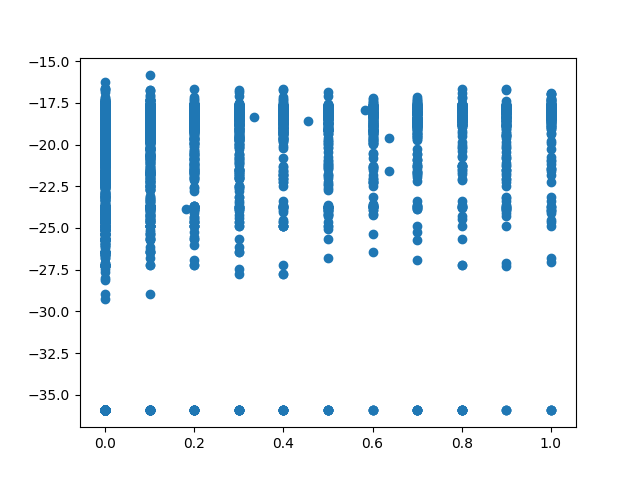
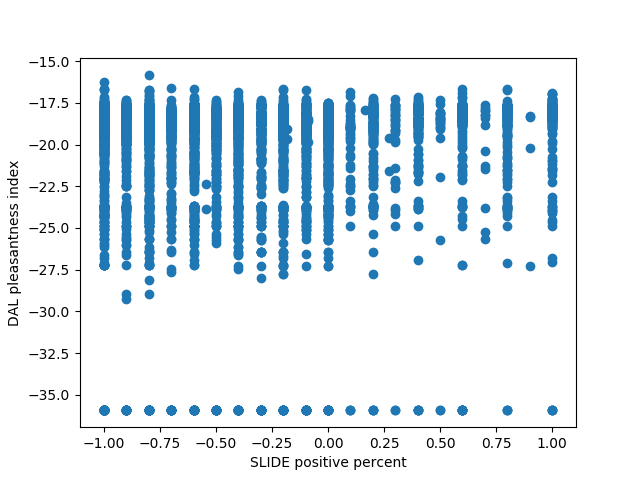
graphing slide and dal

diff --git a/slide.py b/slide.py
@@ -132,7 +132,7 @@ def parse():
 			l = line.split("\t")
 
 			if l[11] != "X":
-				s = float(l[7])
+				s = float(l[7]) - float(l[9])
 				d = dal_score(l[0])
 
 				s_scores.append(s)
